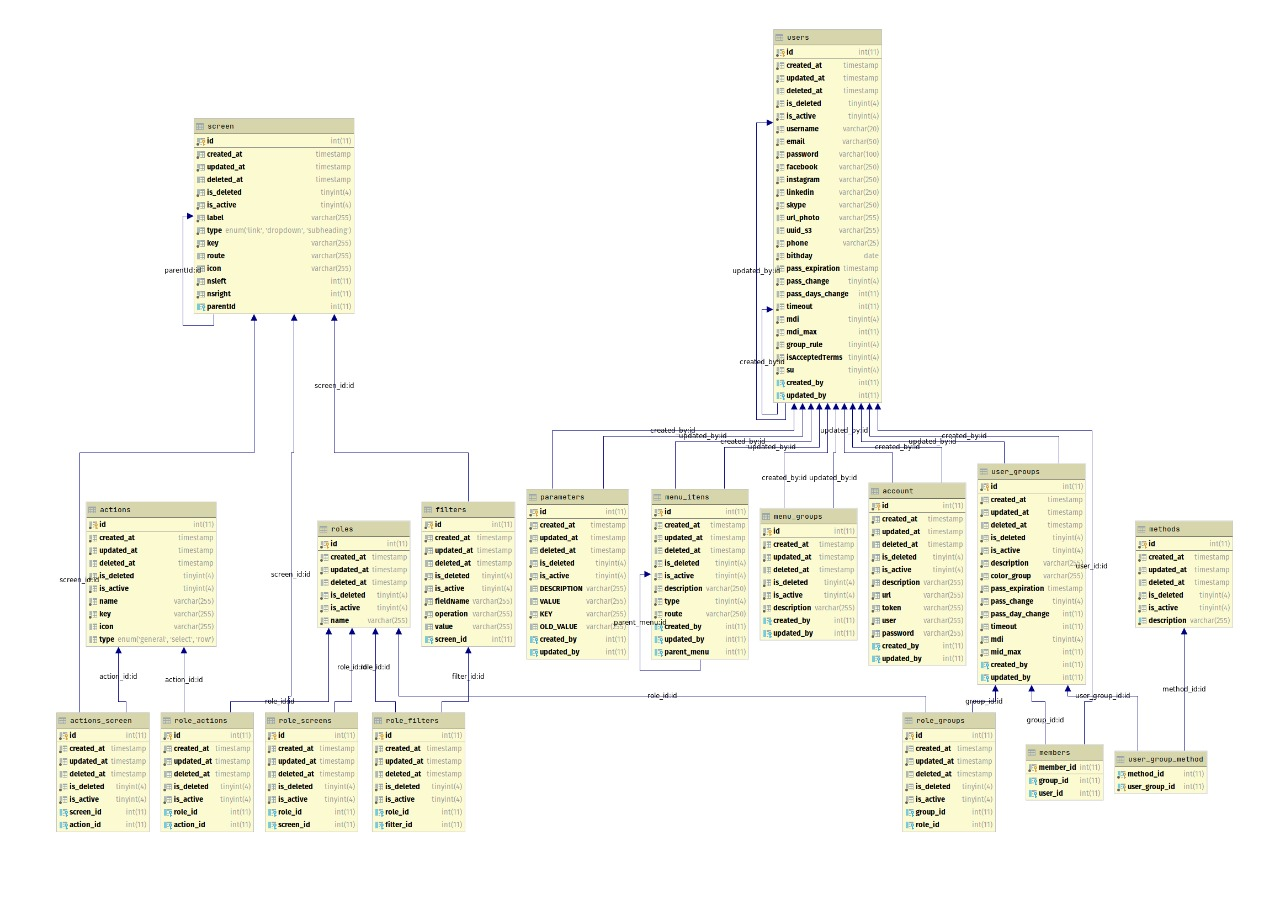
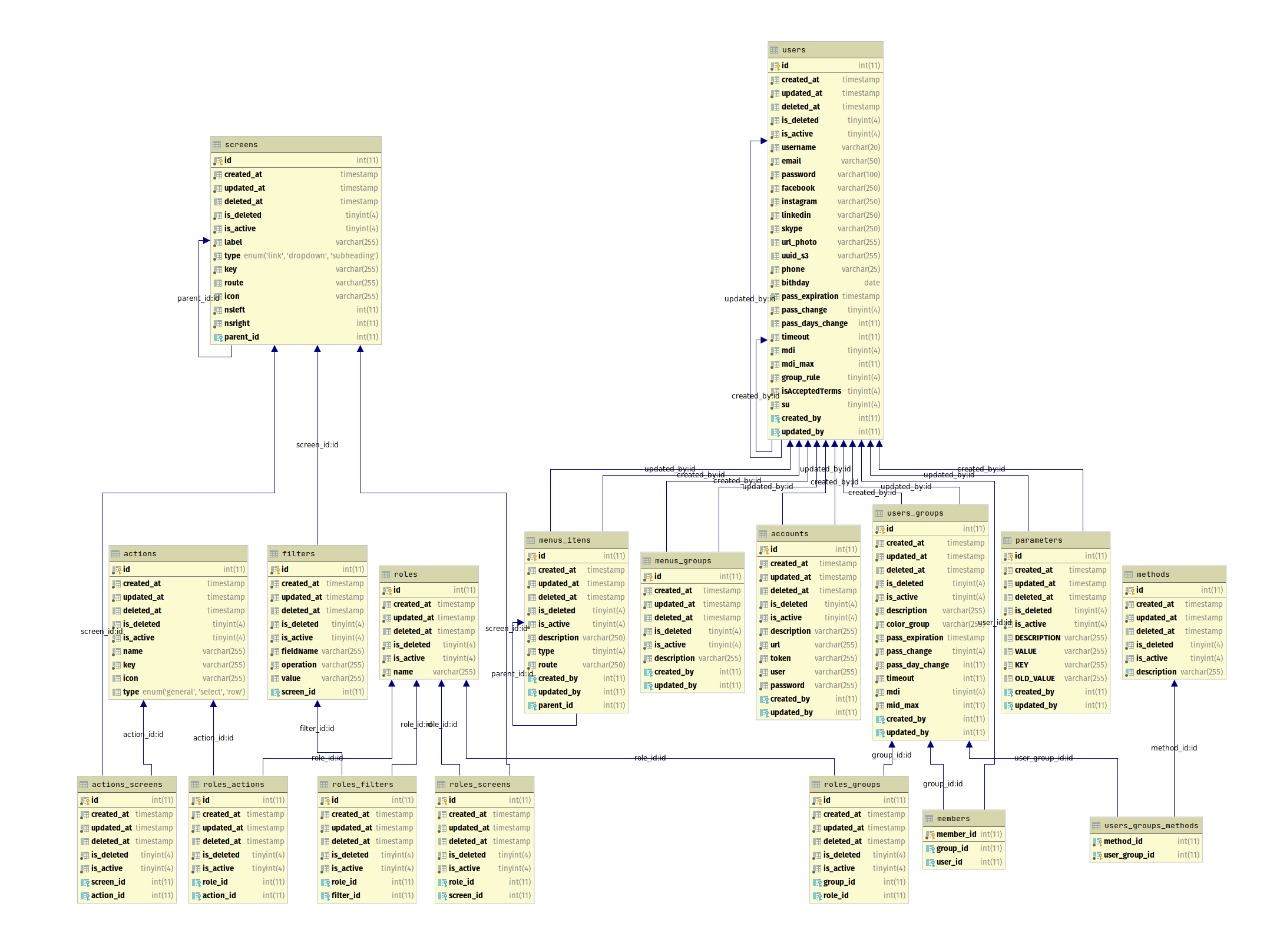
fix: plural names -tables

diff --git a/libs/shared/api-acl/src/lib/screens/screens.entity.ts b/libs/shared/api-acl/src/lib/screens/screens.entity.ts
@@ -1,5 +1,5 @@
 import { BaseMysqlEntity, SCREEN_TYPE } from '@of5/shared/api-shared';
-import { Column, Entity, OneToMany, Tree, TreeChildren, TreeParent } from 'typeorm';
+import { Column, Entity, JoinColumn, OneToMany, Tree, TreeChildren, TreeParent } from 'typeorm';
 
 import { ActionScreenEntity, FilterEntity, RoleScreenEntity } from '..';
 
@@ -28,6 +28,7 @@ export class ScreenEntity extends BaseMysqlEntity {
   children: ScreenEntity[];
 
   @TreeParent()
+  @JoinColumn({ name: 'parent_id', referencedColumnName: 'id' })
   parent: ScreenEntity;
 
   @OneToMany(() => ActionScreenEntity, (as) => as.screen, { onDelete: 'CASCADE' })

diff --git a/libs/shared/api-acl/src/lib/menus-itens/menus-itens.entity.ts b/libs/shared/api-acl/src/lib/menus-itens/menus-itens.entity.ts
@@ -29,7 +29,7 @@ export class MenuItemEntity extends BaseMysqlEntity {
     nullable: true,
     onDelete: 'SET NULL'
   })
-  @JoinColumn({ name: 'parent_menu', referencedColumnName: 'id' })
+  @JoinColumn({ name: 'parent_id', referencedColumnName: 'id' })
   parentMenuItem: MenuItemEntity;
 
   // Lista de menu item filhos deste menu item
